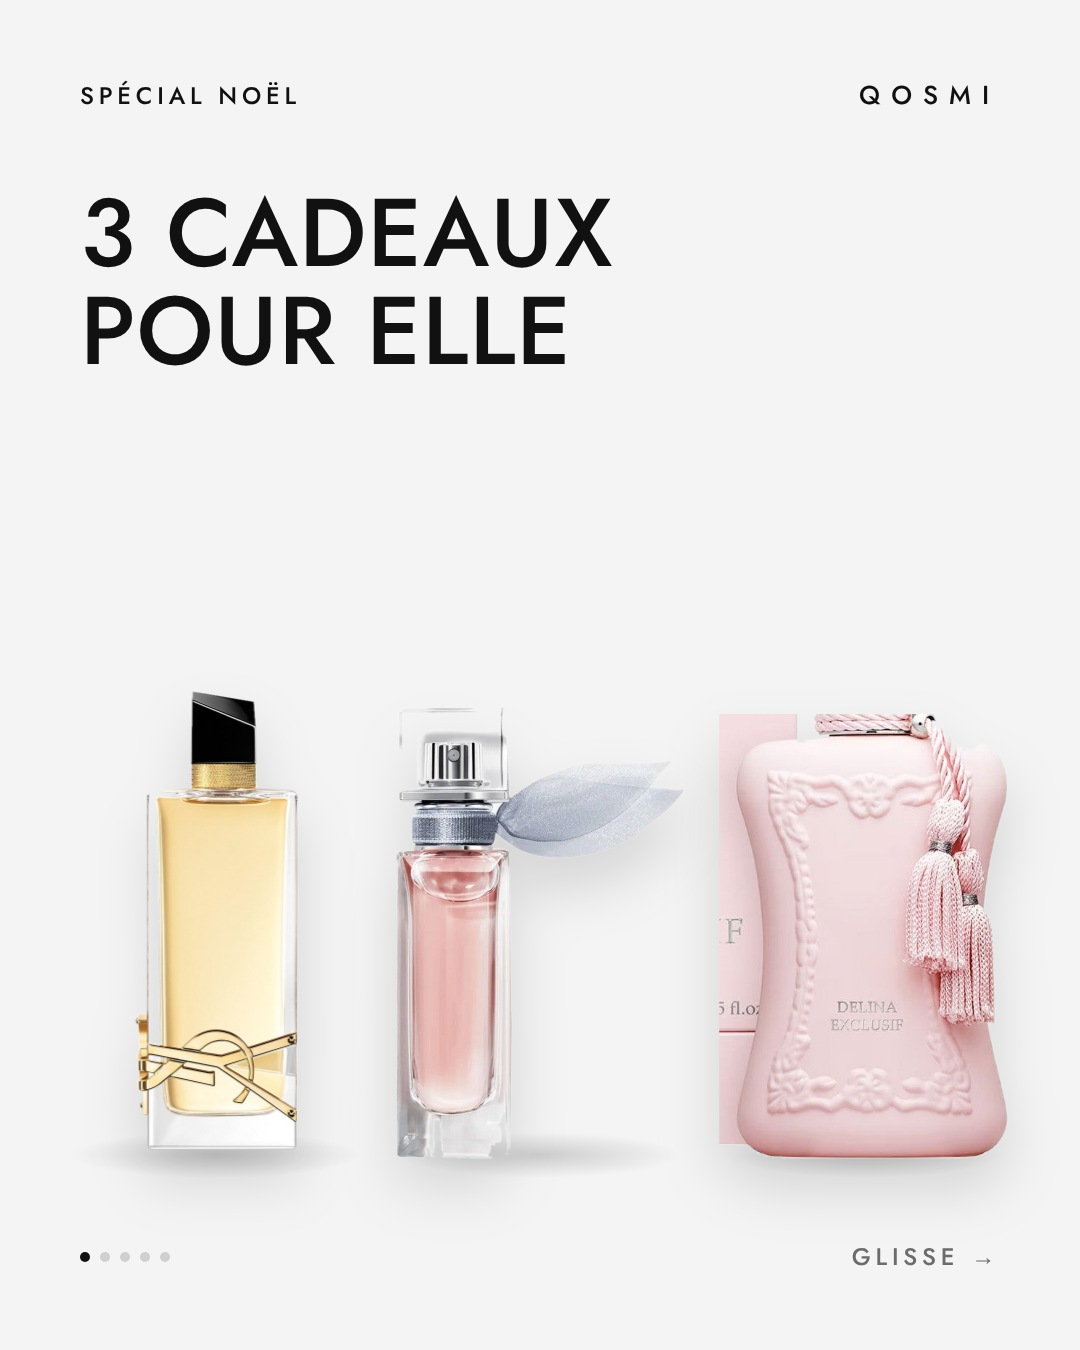
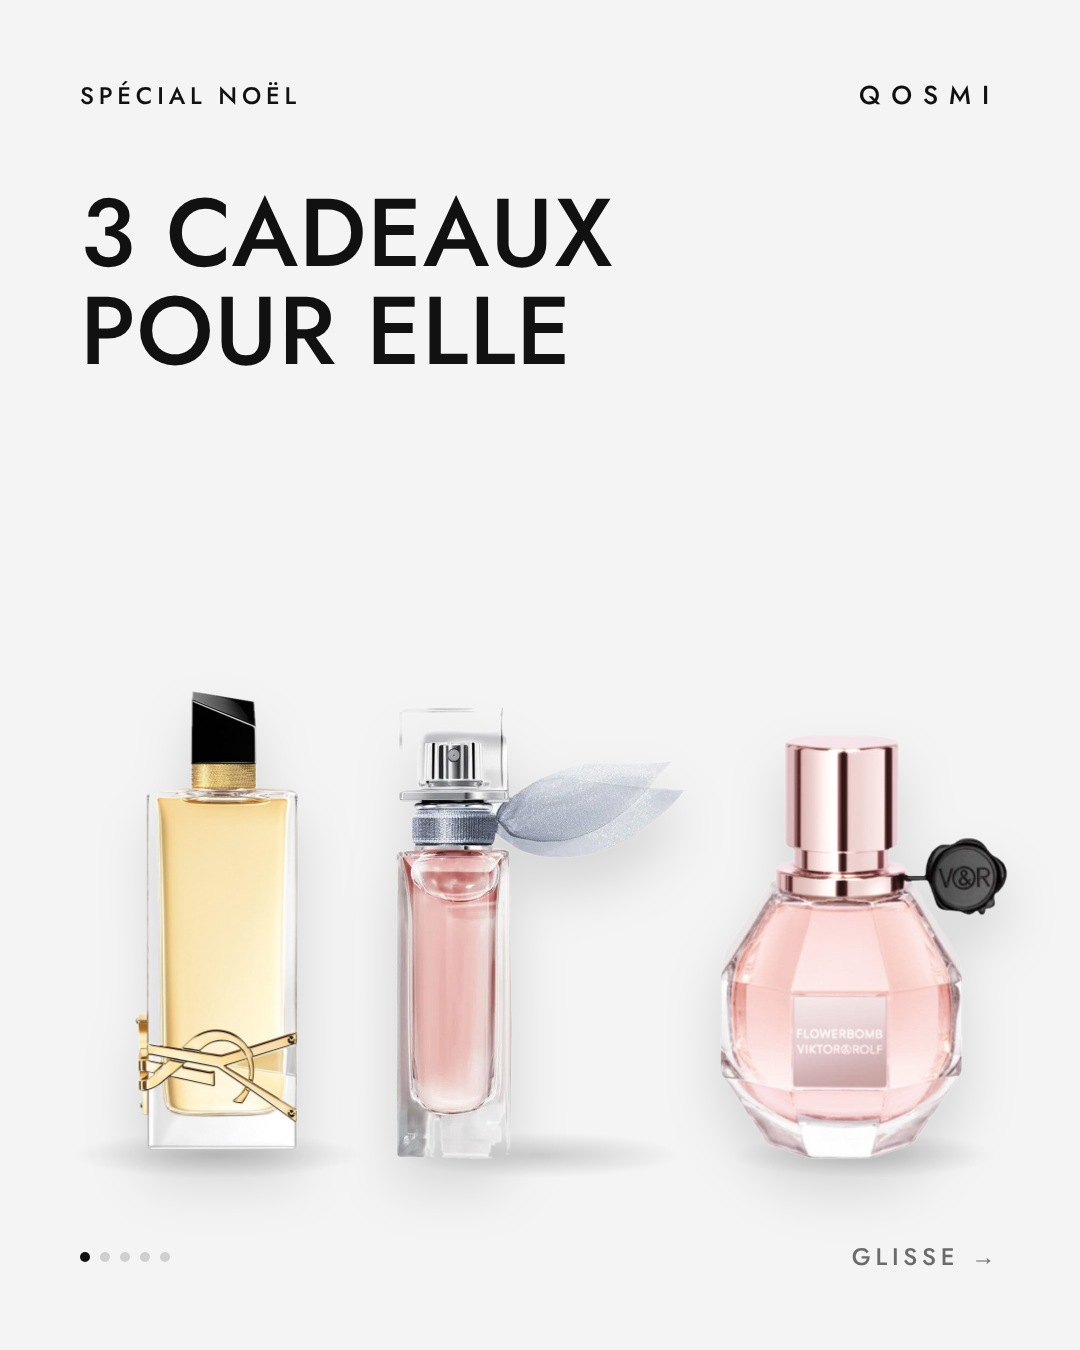
Lot 1 : Delina Exclusif (photo avec boîte) remplacé par Flowerbomb, Valaya et Delina
Claude-Session: https://claude.ai/code/session_01PnR2oFAkbpwgD8AZprSnto

Changed region(s): [[0.6417, 0.5289, 0.9472, 0.8711]]

diff --git a/social/legendes_lot1.py b/social/legendes_lot1.py
@@ -85,13 +85,13 @@ Le Male, Aqua Universalis et Gentle Fluidity Gold sont sur qosmi.be
 
 #franciskurkdjian #parfumeur #mfk #lemale #qosmi"""))
 
-L.append(("08-sel-noel-elle", "Carrousel · spécial Noël", "3 cadeaux pour elle", [("La Vie est Belle", "/parfum/la-vie-est-belle"), ("Delina Exclusif", "/parfum/parfums-de-marly-delina-exclusif")], """Tu cherches quoi lui offrir ? 3 parfums qui font plaisir à coup sûr :
+L.append(("08-sel-noel-elle", "Carrousel · spécial Noël", "3 cadeaux pour elle", [("La Vie est Belle", "/parfum/la-vie-est-belle"), ("Flowerbomb", "/parfum/flowerbomb")], """Tu cherches quoi lui offrir ? 3 parfums qui font plaisir à coup sûr :
 
 1. Yves Saint Laurent Libre : la lavande rencontre la fleur d'oranger, sur un fond de vanille. Élégant, sans jamais être sage.
 
 2. Lancôme La Vie est Belle : poire, iris, praline et vanille. Le gourmand qu'on ne présente plus, sorti en 2012.
 
-3. Parfums de Marly Delina Exclusif : la version la plus intense de Delina, avec de l'encens et une touche d'oud autour de la rose.
+3. Viktor&Rolf Flowerbomb : thé, jasmin, orchidée et rose sur un fond de patchouli. Le tout premier parfum de la maison, en 2005, dans son flacon en forme de grenade.
 
 Lequel finira sous le sapin ? Dis-le nous en commentaire.
 
@@ -153,11 +153,11 @@ Disponible sur qosmi.be
 
 #terredhermes #hermes #jeanclaudeellena #parfumhomme #qosmi"""))
 
-L.append(("14-bio-bisch", "Carrousel · le parfumeur", "Quentin Bisch", [("Quentin Bisch", "/parfumeur/quentin-bisch")], """À 11 ans, Quentin Bisch annonce à un professeur qu'il sera parfumeur. Le problème : il est nul en sciences, et les écoles de parfumerie demandent de la chimie.
+L.append(("14-bio-bisch", "Carrousel · le parfumeur", "Quentin Bisch", [("Quentin Bisch", "/parfumeur/quentin-bisch"), ("Valaya", "/parfum/parfums-de-marly-valaya")], """À 11 ans, Quentin Bisch annonce à un professeur qu'il sera parfumeur. Le problème : il est nul en sciences, et les écoles de parfumerie demandent de la chimie.
 
 Il fait donc un master en arts du spectacle… puis écrit aux grandes maisons. Il devient assistant parfumeur à Grasse, avant d'être formé chez Givaudan.
 
-On lui doit entre autres Delina et Delina Exclusif de Parfums de Marly, et Very Good Girl de Carolina Herrera. Sa mémoire olfactive est telle qu'il se souvient encore du parfum de chacun de ses professeurs.
+On lui doit entre autres Delina et Valaya de Parfums de Marly, et Very Good Girl de Carolina Herrera. Sa mémoire olfactive est telle qu'il se souvient encore du parfum de chacun de ses professeurs.
 
 Ses créations sont sur qosmi.be
 
@@ -194,7 +194,7 @@ En parfumerie, on travaille surtout deux roses : la rose centifolia, aussi appel
 
 La rose de Damas est distillée pour obtenir une huile essentielle fraîche, presque citronnée. La centifolia donne une absolue plus chaude, miellée, presque épicée.
 
-À sentir : Delina Exclusif, construit autour de la rose de Damas, et Coco Mademoiselle, où la rose rencontre le jasmin. Sur qosmi.be
+À sentir : Delina, construit autour de la rose de Damas, et Coco Mademoiselle, où la rose rencontre le jasmin. Sur qosmi.be
 
 #rose #matierepremiere #rosedemai #parfumfloral #qosmi"""))
 

diff --git a/social/visuels_lot1.py b/social/visuels_lot1.py
@@ -211,7 +211,7 @@ P["07-bio-kurkdjian"] = bio("Francis<br>Kurkdjian", "f2361-francis-kurkdjian-par
 P["08-sel-noel-elle"] = selection("3 cadeaux<br>pour elle", [
     ("libre", "Yves Saint Laurent", "Libre", "Lavande, fleur d'oranger, vanille", "Élégant, sans jamais être sage.", "Eau de parfum"),
     ("lveb", "Lancôme", "La Vie est Belle", "Poire, iris, praline, vanille", "Le gourmand qu'on ne présente plus.", "2012"),
-    ("delinaex", "Parfums de Marly", "Delina Exclusif", "Rose de Damas, encens, touche d'oud", "La version la plus intense de Delina.", "2018 · Quentin Bisch")],
+    ("flowerbomb", "Viktor&Rolf", "Flowerbomb", "Thé, jasmin, orchidée, rose, patchouli", "Le tout premier parfum de la maison, en forme de grenade.", "2005")],
     "Sous le sapin ?", "Dis-nous lequel<br>en commentaire.", sur="Spécial Noël")
 P["09-mat-vanille"] = matiere("La vanille", "Le fruit d'une orchidée", "vanille", "50% 50%", "D'où vient la vanille ?",
     "Le fruit d'une orchidée. Originaire du Mexique, elle pousse aujourd'hui surtout à Madagascar et à La Réunion.",
@@ -238,7 +238,7 @@ P["14-bio-bisch"] = bio("Quentin<br>Bisch", "f166-quentin-bisch", "Parfumeur · 
      "Trop faible en sciences pour les écoles de parfumerie, il fait un master en arts du spectacle, puis écrit aux grandes maisons.",
      "Assistant à Grasse, il est ensuite formé chez Givaudan."],
     ("Il se souvient encore du parfum de chacun de ses professeurs.", "Sa mémoire olfactive"),
-    [("delina", "Delina", "Parfums de Marly · 2017"), ("delinaex", "Delina Exclusif", "Parfums de Marly · 2018"), ("verygoodgirl", "Very Good Girl", "Carolina Herrera")])
+    [("delina", "Delina", "Parfums de Marly · 2017"), ("valaya", "Valaya", "Parfums de Marly · 2023"), ("verygoodgirl", "Very Good Girl", "Carolina Herrera")])
 P["15-conseil-concentrations"] = conseil("Eau de toilette,<br>eau de parfum,<br>extrait : quelle<br>différence ?", [
     ("Eau de toilette", "En général 5 à 15 % de concentré de parfum. Plus légère, plus fraîche."),
     ("Eau de parfum", "Autour de 15 à 20 %. Plus de tenue, un sillage plus présent."),
@@ -251,7 +251,7 @@ P["17-mat-rose"] = matiere("La rose", "La reine des fleurs", "rose", "50% 40%", 
     "Deux grandes roses : la centifolia, ou rose de mai, cultivée en France et au Maroc, et la rose de Damas, en Bulgarie et en Turquie.",
     "Distillée, la rose de Damas donne une huile fraîche, presque citronnée. La centifolia donne une absolue plus chaude et miellée.",
     "On compose des parfums à la rose depuis l'Antiquité.",
-    [("delinaex", "Parfums de Marly", "Delina Exclusif"), ("coco", "Chanel", "Coco Mademoiselle")])
+    [("delina", "Parfums de Marly", "Delina"), ("coco", "Chanel", "Coco Mademoiselle")])
 P["18-sel-mixtes"] = selection("3 parfums<br>à partager<br>à deux", [
     ("ckone", "Calvin Klein", "CK One", "Agrumes, thé vert, muscs", "Pensé pour elle et pour lui, dès 1994.", "1994 · Alberto Morillas"),
     ("colonia", "Acqua di Parma", "Colonia", "Agrumes, lavande, vétiver", "L'eau de Cologne qui a fondé la maison.", "1916"),
